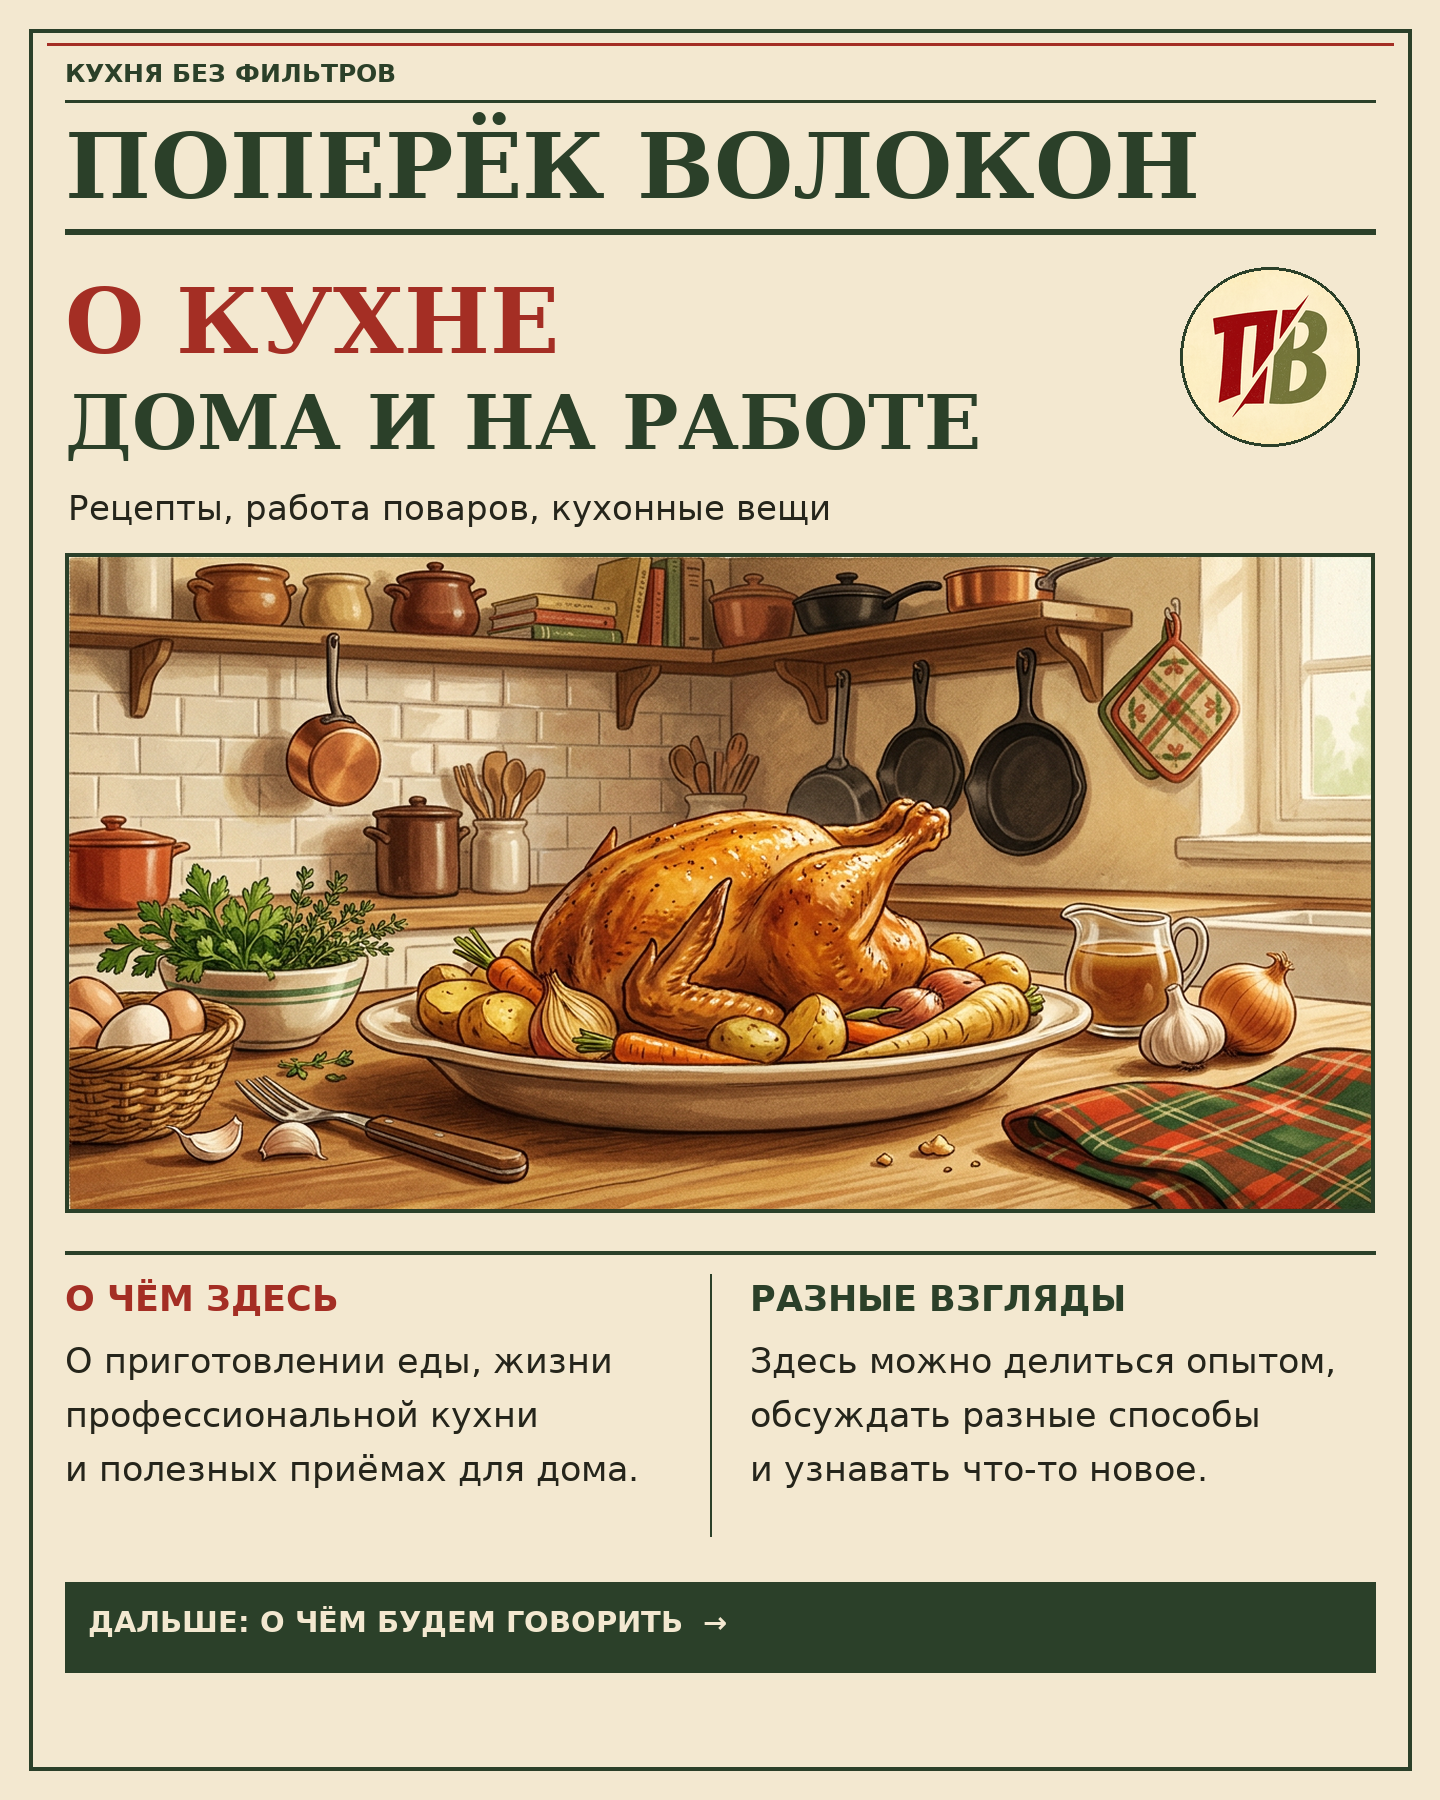
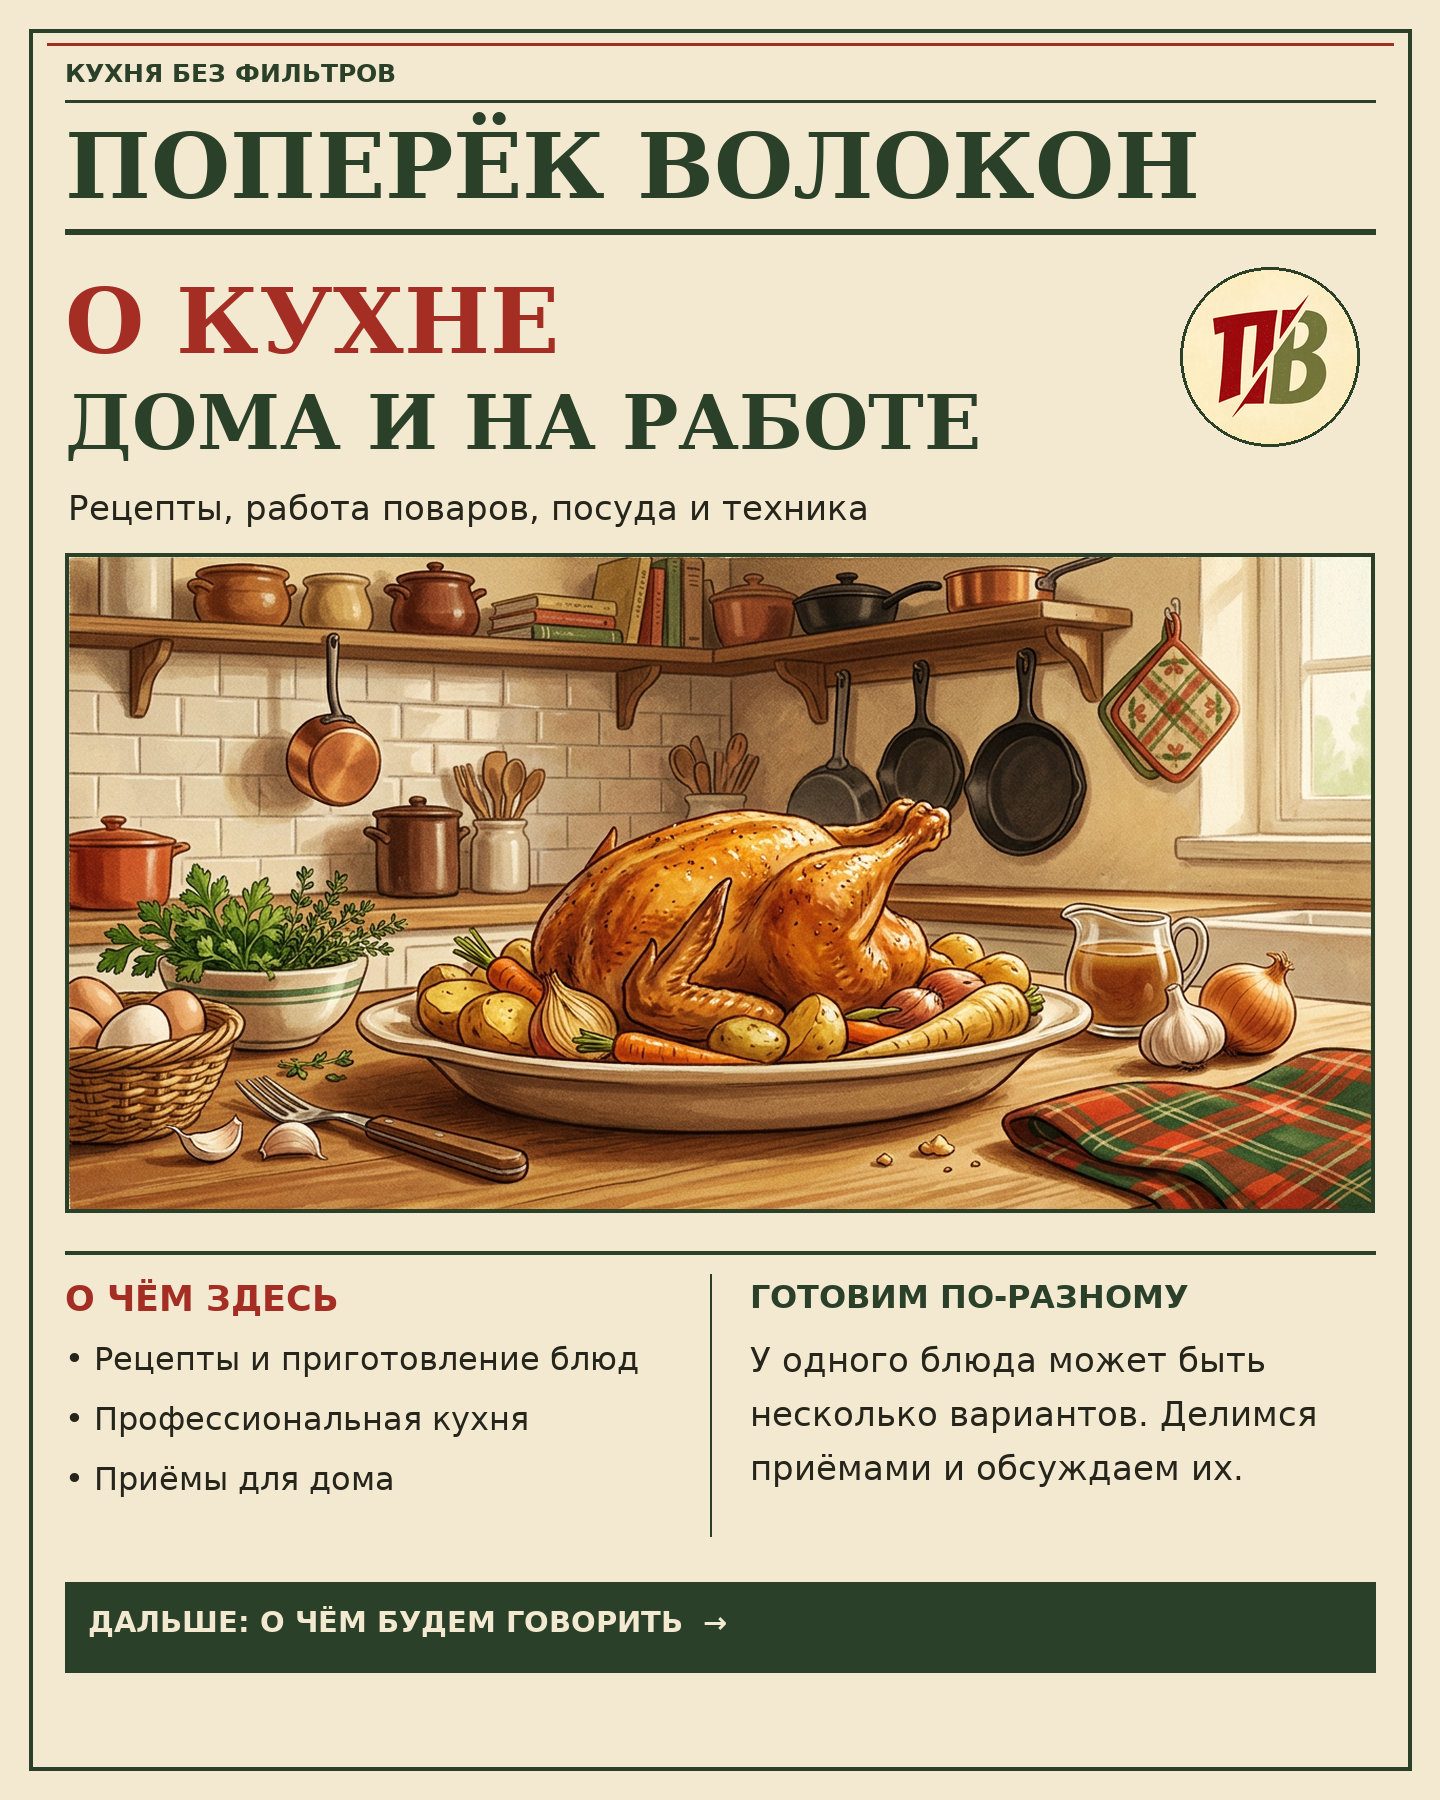
Clarify introductory card copy

Changed region(s): [[0.5312, 0.7156, 0.9062, 0.84], [0.0312, 0.7467, 0.4375, 0.84], [0.375, 0.28, 0.5938, 0.3111]]

diff --git a/proekt/03-chernoviki/pervyj-post/sobrat-stranicu-01.py b/proekt/03-chernoviki/pervyj-post/sobrat-stranicu-01.py
@@ -29,7 +29,7 @@ logo=ImageOps.fit(logo,(180,180),Image.Resampling.LANCZOS)
 mask=Image.new('L',(180,180)); ImageDraw.Draw(mask).ellipse((0,0,179,179),fill=255)
 im.paste(logo,(1180,267),mask)
 d.ellipse((1180,267,1359,446),outline=green,width=3)
-text(68,488,'Рецепты, работа поваров, кухонные вещи',34,'body',ink,1300)
+text(68,488,'Рецепты, работа поваров, посуда и техника',34,'body',ink,1300)
 # Image has own frame; contain preserves whole composition.
 src=Image.open(p/'vizual-01.png').convert('RGB')
 src=src.crop((65,58,1310,686))
@@ -38,10 +38,10 @@ im.paste(src,(65,553)); d.rectangle((65,553,1374,1212),outline=green,width=4)
 # Separate independent story blocks, no fake ad copy.
 d.line((65,1252,1375,1252),fill=green,width=4)
 text(65,1278,'О ЧЁМ ЗДЕСЬ',35,'bold',red,610)
-lines(65,1340,['О приготовлении еды, жизни', 'профессиональной кухни', 'и полезных приёмах для дома.'],35,54,w=610)
+lines(65,1340,['• Рецепты и приготовление блюд', '• Профессиональная кухня', '• Приёмы для дома'],32,60,w=610)
 d.line((710,1274,710,1536),fill=green,width=2)
-text(750,1278,'РАЗНЫЕ ВЗГЛЯДЫ',35,'bold',green,625)
-lines(750,1340,['Здесь можно делиться опытом,', 'обсуждать разные способы', 'и узнавать что-то новое.'],35,54,w=625)
+text(750,1278,'ГОТОВИМ ПО-РАЗНОМУ',32,'bold',green,625)
+lines(750,1340,['У одного блюда может быть', 'несколько вариантов. Делимся', 'приёмами и обсуждаем их.'],34,54,w=625)
 d.rectangle((65,1582,1375,1672),fill=green)
 text(88,1605,'ДАЛЬШЕ: О ЧЁМ БУДЕМ ГОВОРИТЬ  →',29,'bold',cream,1260)
 im.save(p/'stranica-01.png',optimize=True)
